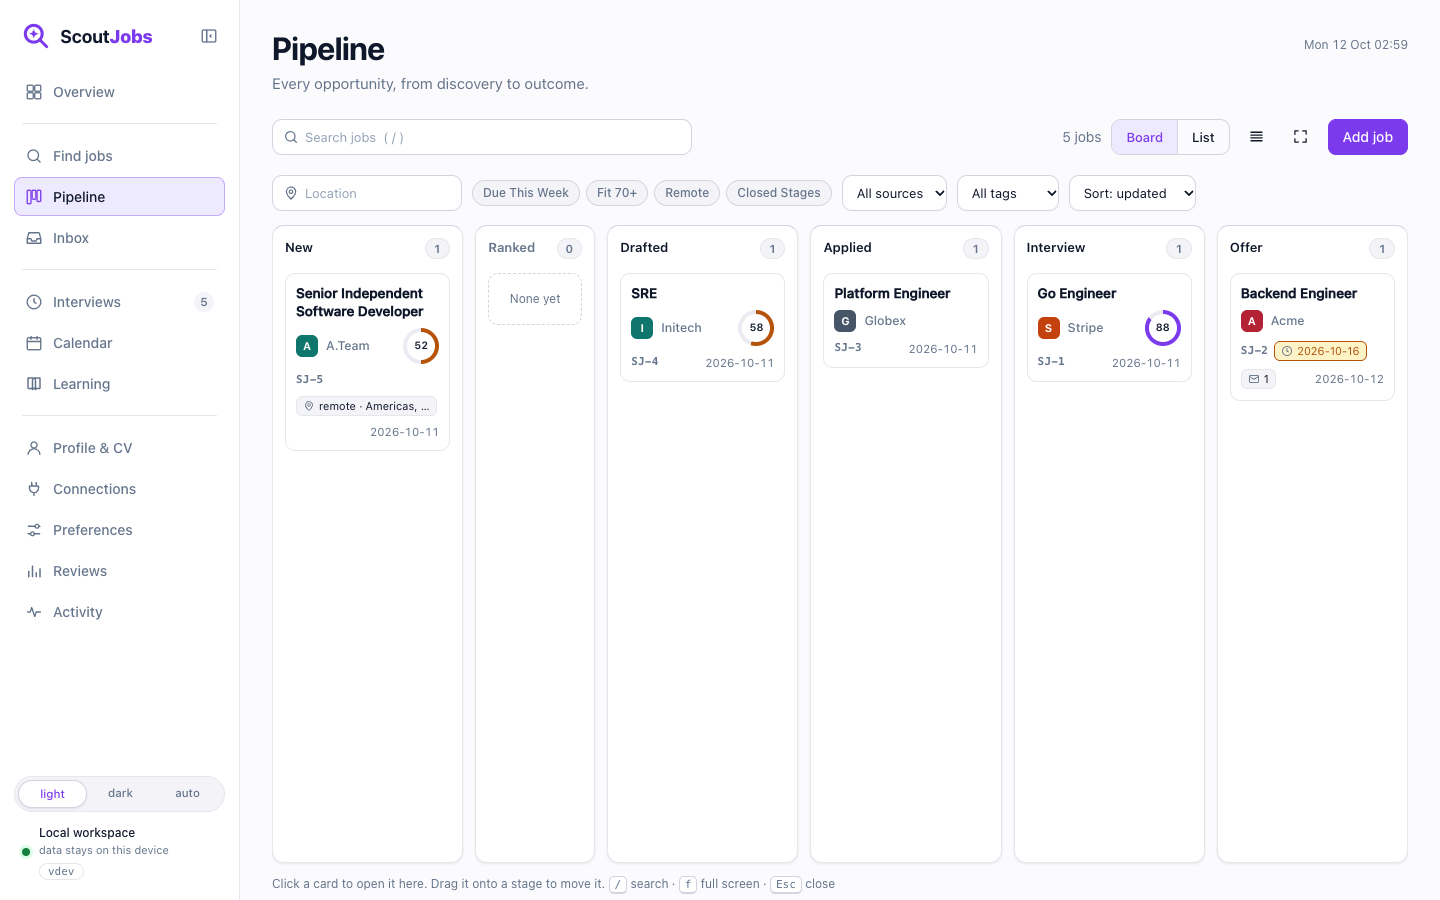
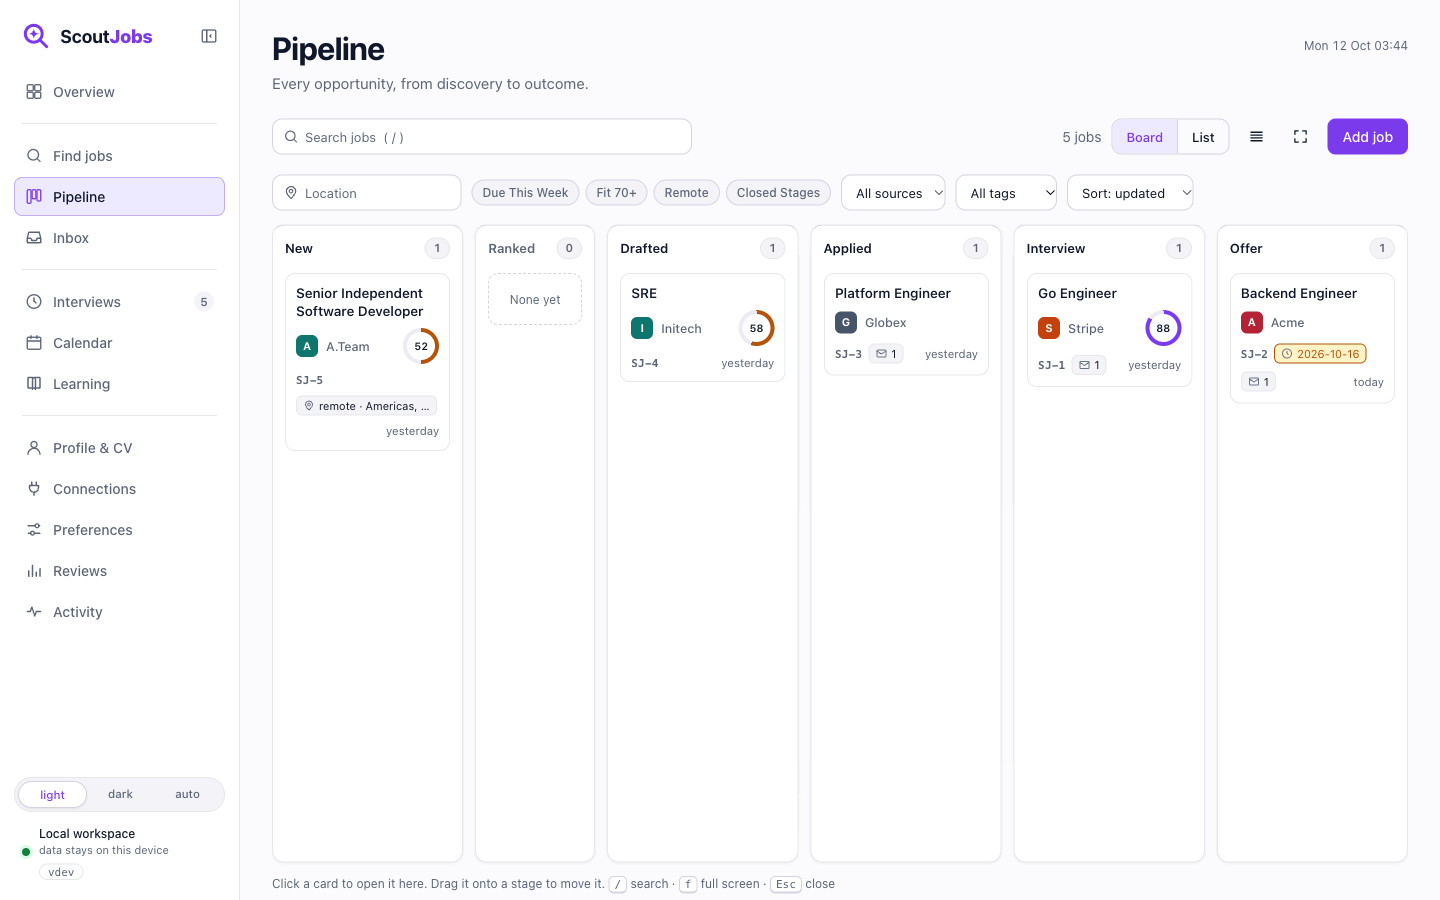
docs: refresh screenshots and document new features

diff --git a/README.md b/README.md
@@ -17,7 +17,7 @@ Your job search, on your machine. An open-source job-search operating system for
 
 - **Skills** (Agent Skills standard) for the whole loop: find jobs, score fit, check your CV, tailor resume and cover letter, track applications, prep and mock interviews, debrief, negotiate, upskill.
 - **A learning loop**: every skip, apply, withdraw and declined offer is logged with your reason. `learn-preferences` turns those into preferences you confirm, and the scorer and tailoring skills read them. It gets better the longer you use it.
-- **A dashboard for people, not just developers**: a single Go binary, SQLite, no Node, one embedded script, no external assets, bound to localhost. Overview with your next best move, job search with plain-language match reasons, pipeline board where every card opens the job and moves to the next stage with one click or a drag, a per-job *Continue with AI* button that tailors your CV and cover letter and checks them before you send, an inbox that matches company replies to your jobs, a Connections page for your AI assistant, mail and calendar, drafts you can edit in place, a "due this week" filter, an add-job form and a board search page, weekly reviews next to the live funnel, interviews, learning progress, preferences it learned, profile and CV health, activity log. Light by default, dark and auto available.
+- **A dashboard for people, not just developers**: a single Go binary, SQLite, no Node, one embedded script, no external assets, bound to localhost. Overview with your next best move, job search with plain-language match reasons, pipeline board where every card opens the job and moves to the next stage with one click or a drag, a per-job *Continue with AI* button that tailors your CV and cover letter and checks them before you send, an inbox that matches company replies to your jobs, a Connections page for your AI assistant, mail and calendar, drafts you can edit in place, a "due this week" filter, an add-job form and a board search page, weekly reviews next to the live funnel, interviews, learning progress, preferences it learned, profile and CV health, activity log in plain words. Friendly dates ("today 10:00"), a sidebar that folds to icons, accessible tooltips. Light by default, dark and auto available.
 - **A built-in job search**: `scoutjobs search` queries public ATS boards (Greenhouse, Lever, Ashby, Workable, SmartRecruiters, Personio, Recruitee, BambooHR) by slug or careers URL, any RSS feed and remote aggregators (Remotive, RemoteOK, Arbeitnow, Jobicy, Himalayas, HN Who is hiring) without an API key, imports a single posting by URL (`job add --from`), deduplicates by posting URL and normalised title, converts salaries to your currency, and adds results to the pipeline.
 - **Apply by e-mail**: `scoutjobs email draft|send` builds the application from your cover letter and tailored resume and sends it through your own SMTP account. The CLI refuses without `--yes`, and the skill asks you first. Every job page also offers a `mailto:` link for your own mail app.
 - **A calendar like Google's**: day, week, month and schedule views of interviews, deadlines and follow-ups, click a slot to schedule, click an event to move it. Every event has *Add to Google Calendar* and an `.ics` download, and the whole calendar is a subscribable feed.
